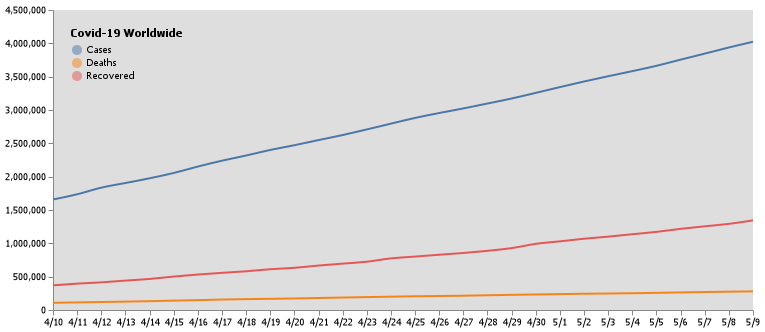
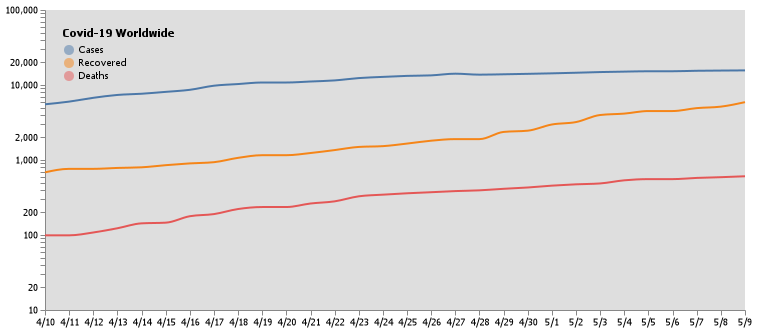
Some error fixing and logarithmic viewing of covid data

diff --git a/commands/covid.js b/commands/covid.js
@@ -1,8 +1,6 @@
 const fetch = require('node-fetch');
 const Discord = require('discord.js');
-var vega = require('vega')
-var fs = require('fs')
-var lineGraph;
+const getWorldData = require("../covidRequests/getWorldData");
 const client = new Discord.Client();
 function numberWithCommas(x) {
     return x.toString().replace(/\B(?=(\d{3})+(?!\d))/g, ",");
@@ -15,9 +13,7 @@ module.exports = {
         var state = args.join(" ").substring(18);
         if(!state) state = "new jersey";
         fetch("https://corona.lmao.ninja/v2/states")
-        .then(
-            d => d.json()
-        )
+        .then( d => d.json() )
         .then(d => {
             var deathsIncrease;
             var casesIncrease;
@@ -31,9 +27,6 @@ module.exports = {
             });
             const covidNJEmbed = { 
                 color: 8388624, 
-                // thumbnail: {
-                //     url: "https://encrypted-tbn0.gstatic.com/images?q=tbn%3AANd9GcTBvT6_MyDPiXGBI-LTY2nZ5tQhScGUKpcQNp8FAoQgkyprorOe&usqp=CAU",
-                // },
                 title: `:house: Covid-19 Daily Updates for ${state} :house:`,
                 description: `The total cases for ${state} include`,
                 fields: [{
@@ -53,145 +46,8 @@ module.exports = {
                 timestamp: new Date(),
             }
             msg.channel.send({ embed:covidNJEmbed })
-            fetch("https://corona.lmao.ninja/v2/all")
-            .then(data=>data.json())
-            .then(total=>{
-                fetch("https://corona.lmao.ninja/v2/historical/all")
-                    .then(data => {
-                        a = data.json();
-                        return a;
-                    })
-                    .then(a => {
-                        var data = [];
-                        for (let i in a.cases) {
-                            let date = i.substring(0, i.length-3);
-                            data.push({ x: date, y: a.cases[i], c: "Cases" }, { x: date, y: a.deaths[i], c: "Deaths" }, { x: date, y: a.recovered[i], c: "Recovered" });
-                        }
-                        var lineGraph = {
-                            "$schema": "https://vega.github.io/schema/vega/v5.json",
-                            "width": 700,
-                            "height": 300,
-                            "padding": 5,
-                            "signals": [
-                                {
-                                    "name": "interpolate",
-                                    "value": "monotone"
-                                }
-                            ],
-                            "data": [
-                                {
-                                    "name": "table",
-                                    "values": data
-                                }
-                            ],
-                            "legends": [
-                                {
-                                    "fill": "color",
-                                    "title": "Covid-19 Worldwide",
-                                    "orient": "top-left",
-                                    "encode": {
-                                        "symbols": { "enter": { "fillOpacity": { "value": 0.5 } } },
-                                        "labels": { "update": { "text": { "field": "value" } } }
-                                    }
-                                }
-                            ],
-                            "scales": [
-                                {
-                                    "name": "x",
-                                    "type": "point",
-                                    "range": "width",
-                                    "domain": { "data": "table", "field": "x" }
-                                },
-                                {
-                                    "name": "y",
-                                    "type": "linear",
-                                    "range": "height",
-                                    "nice": true,
-                                    "zero": true,
-                                    "domain": { "data": "table", "field": "y" }
-                                },
-                                {
-                                    "name": "color",
-                                    "type": "ordinal",
-                                    "range": "category",
-                                    "domain": { "data": "table", "field": "c" }
-                                }
-                            ],
+            msg.channel.send(getWorldData.getGraph("all"));
+        });
 
-                            "axes": [
-                                { "orient": "bottom", "scale": "x" },
-                                { "orient": "left", "scale": "y" }
-                            ],
-
-                            "marks": [
-                                {
-                                    "type": "group",
-                                    "from": {
-                                        "facet": {
-                                            "name": "series",
-                                            "data": "table",
-                                            "groupby": "c"
-                                        }
-                                    },
-                                    "marks": [
-                                        {
-                                            "type": "line",
-                                            "from": { "data": "series" },
-                                            "encode": {
-                                                "enter": {
-                                                    "x": { "scale": "x", "field": "x" },
-                                                    "y": { "scale": "y", "field": "y" },
-                                                    "stroke": { "scale": "color", "field": "c" },
-                                                    "strokeWidth": { "value": 2 }
-                                                },
-                                                "update": {
-                                                    "interpolate": { "signal": "interpolate" },
-                                                    "strokeOpacity": { "value": 1 }
-                                                },
-                                                "hover": {
-                                                    "strokeOpacity": { "value": 0.5 }
-                                                }
-                                            }
-                                        }
-                                    ]
-                                }
-                            ]
-                        }
-                        const config = {
-                            "background": "white",
-                            "group": {
-                                "fill": "#dedede"
-                            }
-                        };
-                        var view = new vega
-                            .View(vega.parse(lineGraph, config))
-                            .renderer('none')
-                            .initialize();
-                        view
-                            .toCanvas()
-                            .then(function (canvas) {
-                                console.log('Writing PNG to file...')
-                                fs.writeFile('lineGraph.png', canvas.toBuffer(), () => "YUUHH");
-                                const exampleEmbed = new Discord.MessageEmbed()
-                                    .setTitle(":world_map: Covid-19 Daily Updates in the World :world_map:")
-                                    .attachFiles(['./lineGraph.png'])
-                                    .setColor(8388624)
-                                    .setDescription("Covid 19 statistics for the world")
-                                    .addField("World Infections", "Total Infected: **" + numberWithCommas(total.cases) +
-                                        `** (**${numberWithCommas(total.todayCases)}** increase)`)
-                                    .addField("World Deaths", "Total Deaths: **" + numberWithCommas(total.deaths) + `** (**${numberWithCommas(total.todayDeaths)}** increase)`)
-                                    .setImage('attachment://lineGraph.png');
-                                msg.channel.send(exampleEmbed )
-
-                            })
-                            .catch(function (err) {
-                                console.log("Error writing PNG to file:")
-                                console.error(err)
-                            });
-
-                    });
-
-            })
-        })
     },
 };

diff --git a/covidRequests/getWorldData.js b/covidRequests/getWorldData.js
@@ -1,0 +1,146 @@
+var vega = require('vega')
+var fs = require('fs')
+const fetch = require('node-fetch');
+const Discord = require('discord.js');
+
+module.exports = {
+    getGraph: (country) => {
+    fetch("https://corona.lmao.ninja/v2/all")
+        .then(data => data.json())
+        .then(total => {
+            fetch("https://corona.lmao.ninja/v2/historical/" + country)
+                .then(data => data.json())
+                .then(a => {
+                    a = a.timeline;
+                    var data = [];
+                    for (let i in a.cases) {
+                        let date = i.substring(0, i.length - 3);
+                        data.push({ x: date, y: a.cases[i], c: "Cases" }, { x: date, y: a.recovered[i], c: "Recovered" }, { x: date, y: a.deaths[i], c: "Deaths" });
+                    }
+                    var lineGraph = {
+                        "$schema": "https://vega.github.io/schema/vega/v5.json",
+                        "width": 700,
+                        "height": 300,
+                        "padding": 5,
+                        "signals": [
+                            {
+                                "name": "interpolate",
+                                "value": "monotone"
+                            }
+                        ],
+                        "data": [
+                            {
+                                "name": "table",
+                                "values": data
+                            }
+                        ],
+                        "legends": [
+                            {
+                                "fill": "color",
+                                "title": "Covid-19 Worldwide",
+                                "orient": "top-left",
+                                "encode": {
+                                    "symbols": { "enter": { "fillOpacity": { "value": 0.5 } } },
+                                    "labels": { "update": { "text": { "field": "value" } } }
+                                }
+                            }
+                        ],
+                        "scales": [
+                            {
+                                "name": "x",
+                                "type": "point",
+                                "range": "width",
+                                "domain": { "data": "table", "field": "x" }
+                            },
+                            {
+                                "name": "y",
+                                "type": "log",
+                                "range": "height",
+                                "nice": true,
+                                "domain": { "data": "table", "field": "y" }
+                            },
+                            {
+                                "name": "color",
+                                "type": "ordinal",
+                                "range": "category",
+                                "domain": { "data": "table", "field": "c" }
+                            }
+                        ],
+
+                        "axes": [
+                            { "orient": "bottom", "scale": "x" },
+                            { "orient": "left", "scale": "y" }
+                        ],
+
+                        "marks": [
+                            {
+                                "type": "group",
+                                "from": {
+                                    "facet": {
+                                        "name": "series",
+                                        "data": "table",
+                                        "groupby": "c"
+                                    }
+                                },
+                                "marks": [
+                                    {
+                                        "type": "line",
+                                        "from": { "data": "series" },
+                                        "encode": {
+                                            "enter": {
+                                                "x": { "scale": "x", "field": "x" },
+                                                "y": { "scale": "y", "field": "y" },
+                                                "stroke": { "scale": "color", "field": "c" },
+                                                "strokeWidth": { "value": 2 }
+                                            },
+                                            "update": {
+                                                "interpolate": { "signal": "interpolate" },
+                                                "strokeOpacity": { "value": 1 }
+                                            },
+                                            "hover": {
+                                                "strokeOpacity": { "value": 0.5 }
+                                            }
+                                        }
+                                    }
+                                ]
+                            }
+                        ]
+                    }
+                    const config = {
+                        "background": "white",
+                        "group": {
+                            "fill": "#dedede"
+                        }
+                    };
+                    var view = new vega
+                        .View(vega.parse(lineGraph, config))
+                        .renderer('none')
+                        .initialize();
+                    view
+                        .toCanvas()
+                        .then(function (canvas) {
+                            console.log('Writing PNG to file...')
+                            fs.writeFile('lineGraph.png', canvas.toBuffer(), () => "YUUHH");
+                            const exampleEmbed = new Discord.MessageEmbed()
+                                .setTitle(":world_map: Covid-19 Daily Updates in the World :world_map:")
+                                .attachFiles(['./lineGraph.png'])
+                                .setColor(8388624)
+                                .setDescription("Covid 19 statistics for the world")
+                                .addField("World Infections", "Total Infected: **" + numberWithCommas(total.cases) +
+                                    `** (**${numberWithCommas(total.todayCases)}** increase)`)
+                                .addField("World Deaths", "Total Deaths: **" + numberWithCommas(total.deaths) + `** (**${numberWithCommas(total.todayDeaths)}** increase)`)
+                                .setImage('attachment://lineGraph.png');
+                            return exampleEmbed;
+                        })
+                        .catch(function (err) {
+                            console.log("Error writing PNG to file:")
+                            console.error(err)
+                            return "error";
+                        });
+
+                });
+
+        })
+
+    }
+}
